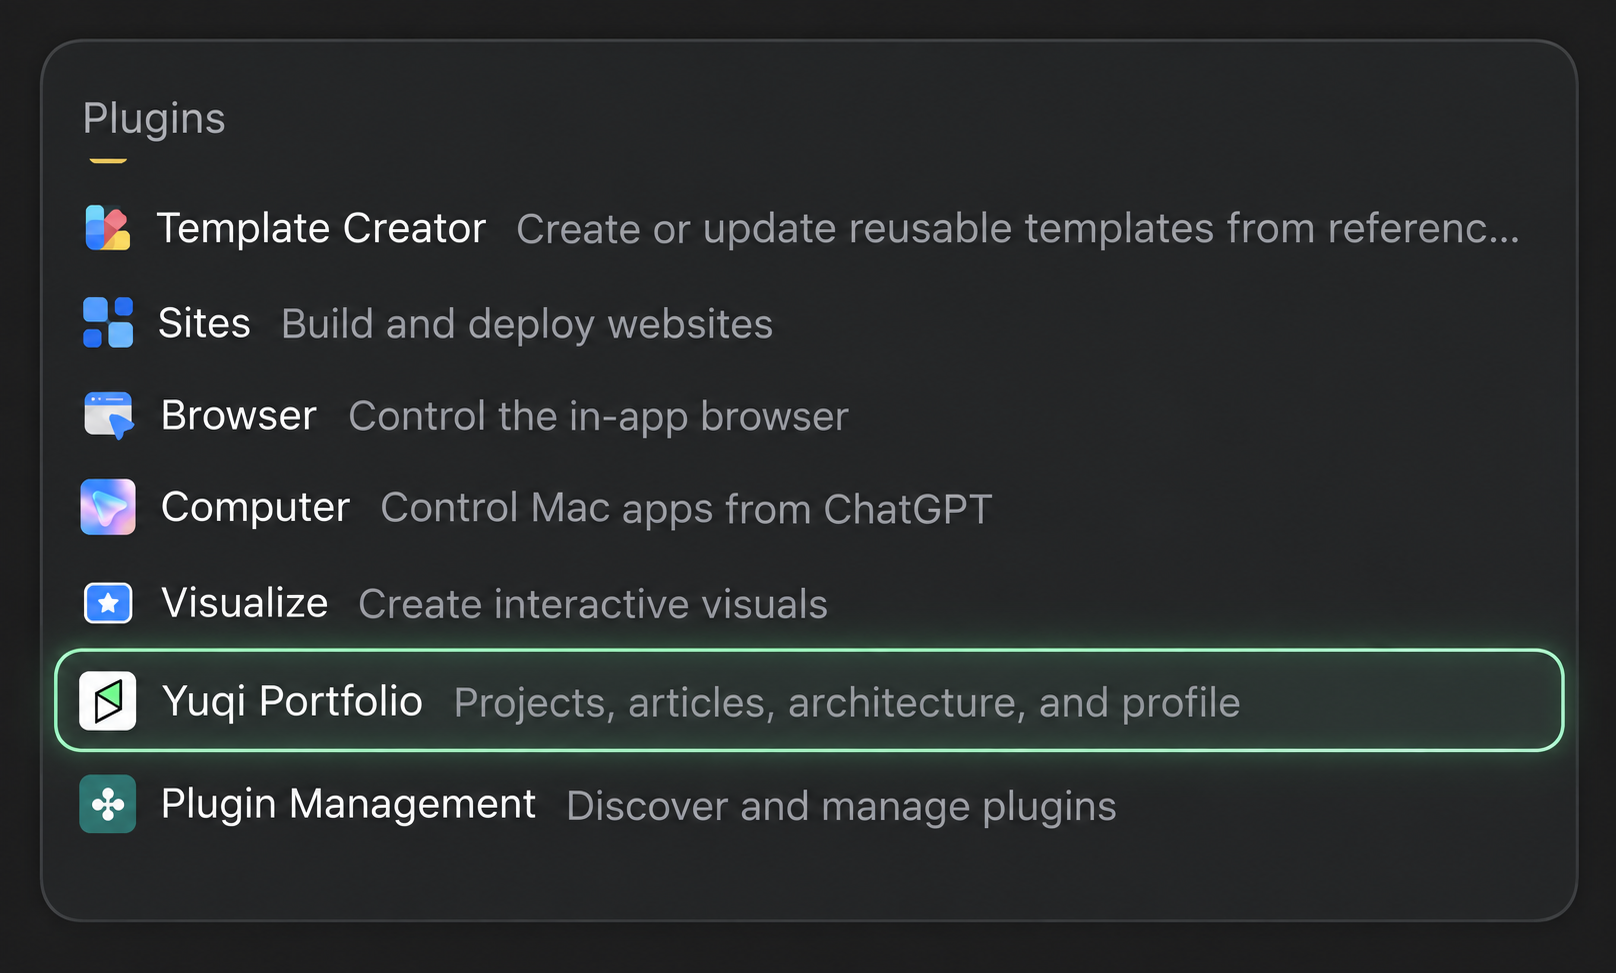
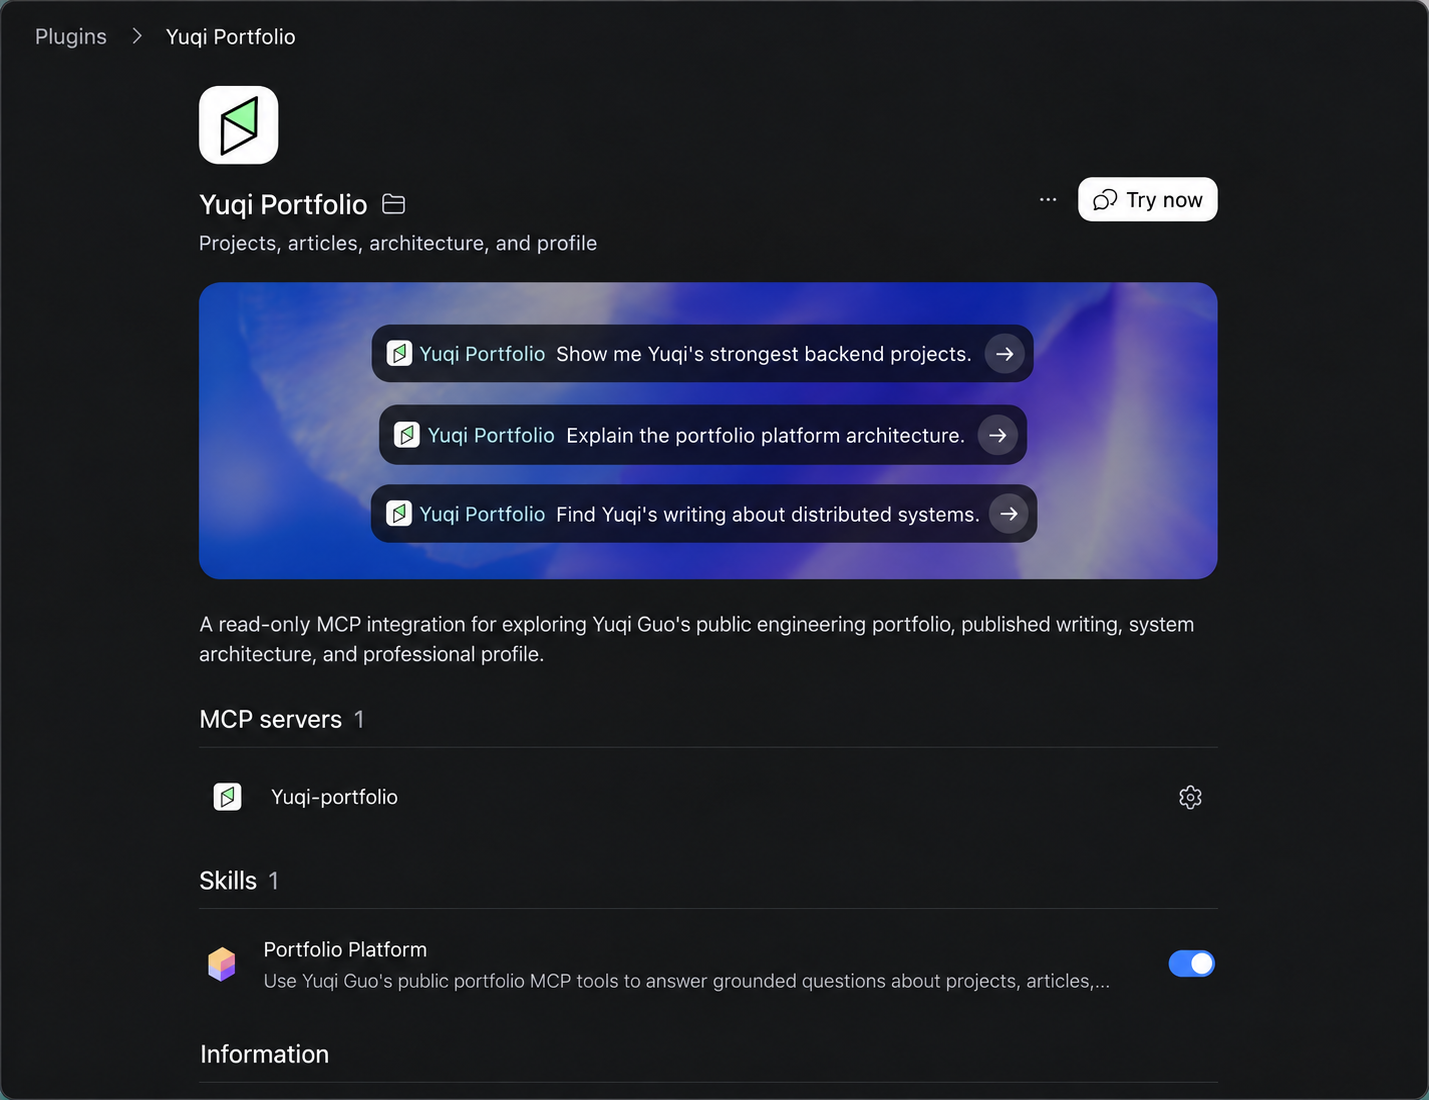
docs(mcp): use polished plugin detail screenshot

diff --git a/pages/mcp-guide.js b/pages/mcp-guide.js
@@ -6,7 +6,7 @@ import styles from '../styles/McpGuide.module.css';
 
 const PUBLIC_URL = 'https://www.yuqi.site/mcp';
 const ADMIN_URL = `${PUBLIC_URL}/admin`;
-const IMAGE_SIZES = { 'claude-public-tools.png': [2056, 1374], 'codex-yuqi-portfolio-plugin-v2.png': [1616, 973], 'admin-sign-in.png': [960, 900], 'claude-admin-write-permissions.png': [810, 520] };
+const IMAGE_SIZES = { 'claude-public-tools.png': [2056, 1374], 'codex-yuqi-portfolio-plugin-v2.png': [1429, 1100], 'admin-sign-in.png': [960, 900], 'claude-admin-write-permissions.png': [810, 520] };
 const SOURCE = 'https://github.com/YuqiGuo105/portfolio-mcp-server';
 const sections = [['authorization', 'Administrator access'], ['connect', 'Connect a client'], ['first-question', 'Ask your first question'], ['tools', 'Public tool reference'], ['troubleshooting', 'Troubleshooting']];
 const tools = [
